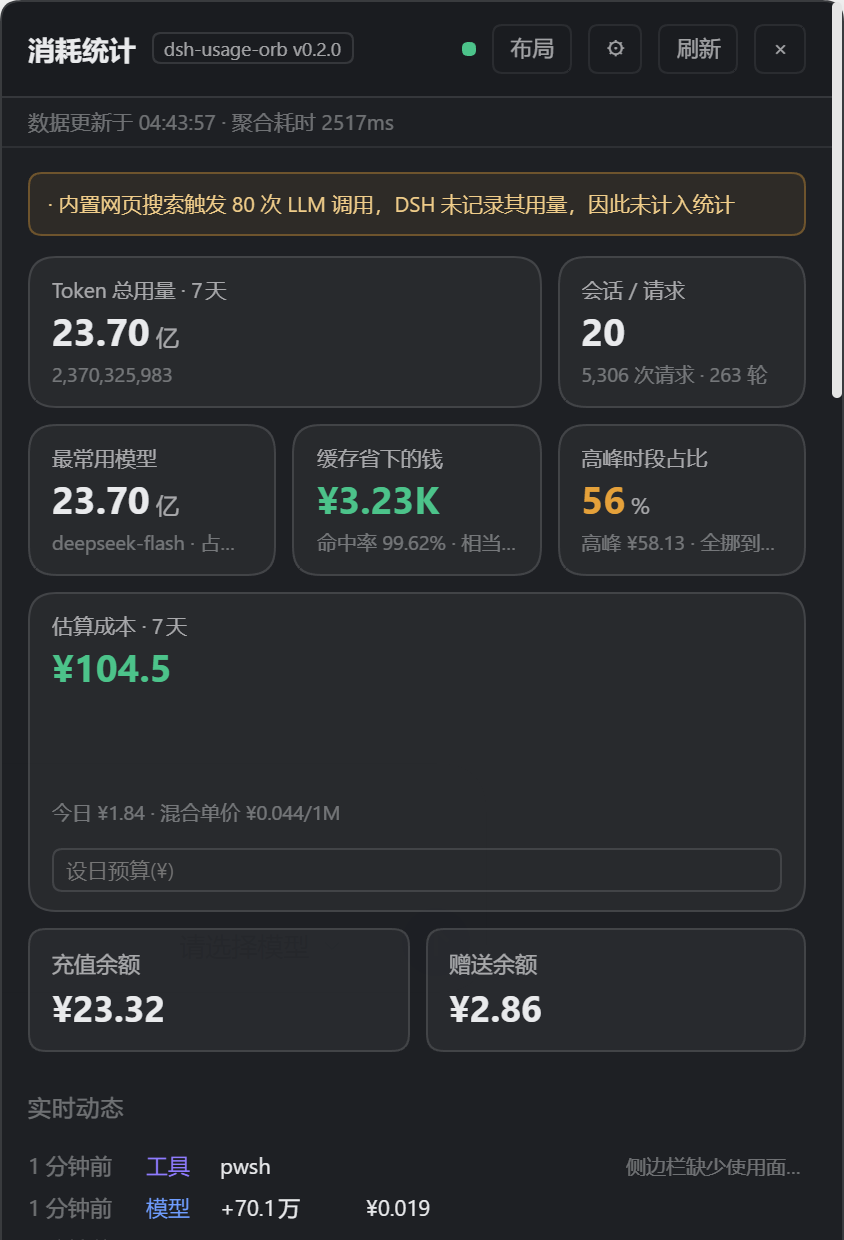
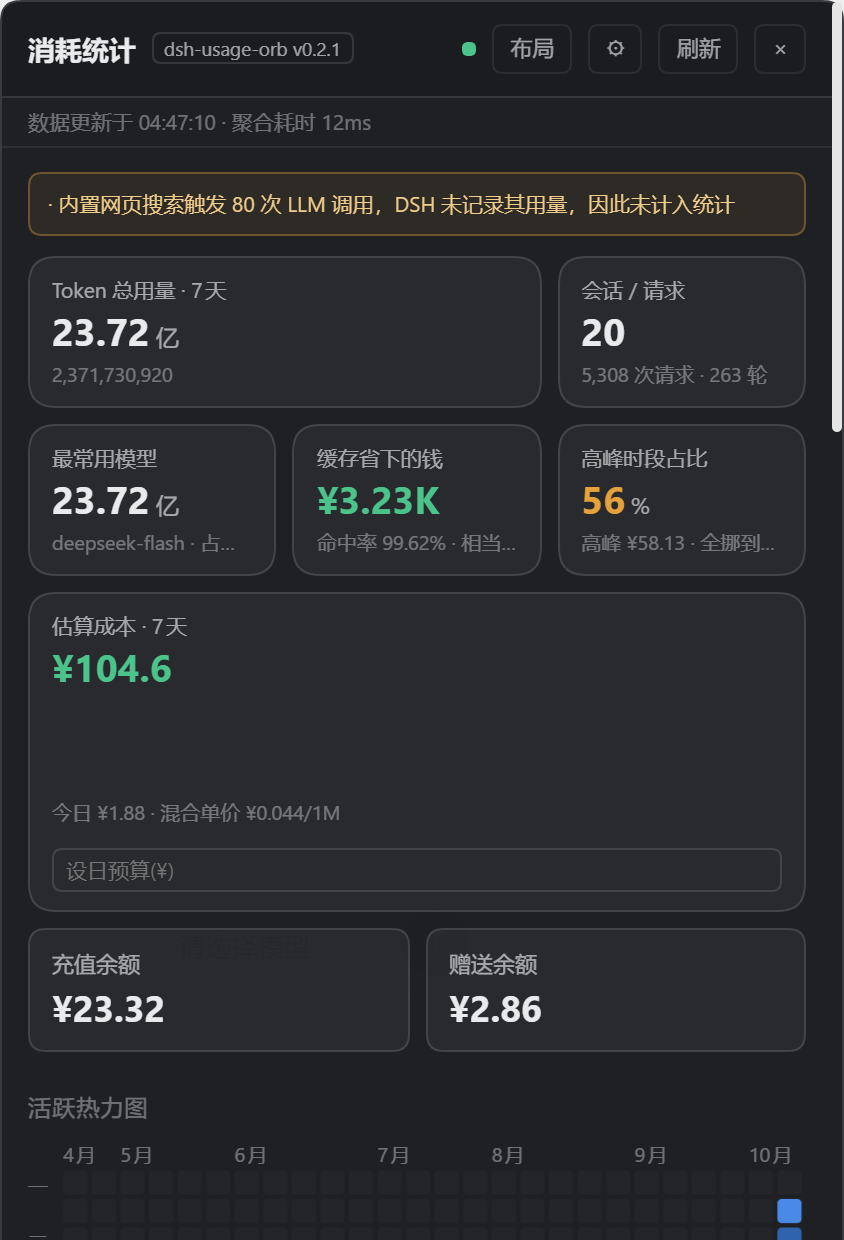
发布截图去个人信息：截图前隐藏「实时动态」（含会话标题）；客户端 VERSION 同步 0.2.1

diff --git a/lib/client.js b/lib/client.js
@@ -22,7 +22,7 @@ window.__ModuleLoader__.load({
     const { useState, useEffect, useMemo, useRef, useCallback } = React
 
     const ROUTE = '/usage-panel/api/usage'
-    const VERSION = '0.2.0'
+    const VERSION = '0.2.1'
     const LS = {
       width: 'dsh-usage-panel:width',
       range: 'dsh-usage-panel:range',
